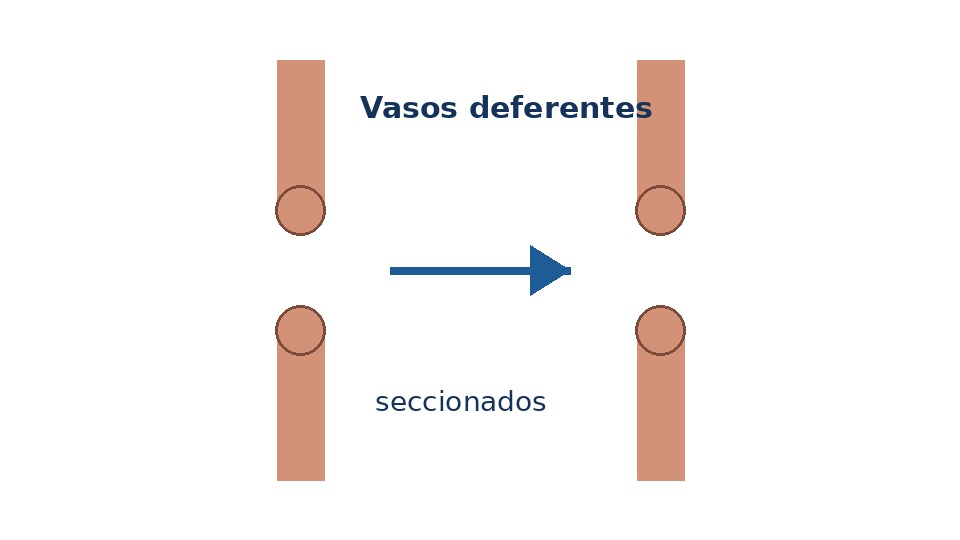
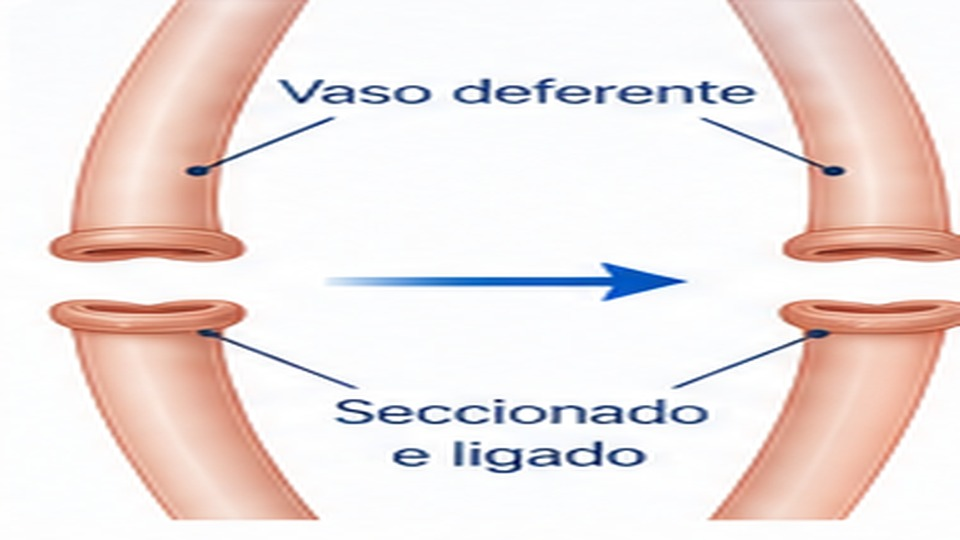
Add files via upload

diff --git a/index.html b/index.html
@@ -1,26 +1,7 @@
 <!doctype html><html lang="pt-BR"><head><meta charset="utf-8"><meta name="viewport" content="width=device-width,initial-scale=1"><meta name="description" content="Dr. Fábio Torricelli, urologista em São Paulo. Atuação em cálculos renais, endourologia, uro-oncologia, cirurgia robótica, próstata e urologia pediátrica."><title>Dr. Fábio Torricelli | Urologista em São Paulo</title><link rel="canonical" href="https://fabiotorricelli.com.br/"><meta name="robots" content="index,follow,max-image-preview:large"><meta property="og:locale" content="pt_BR"><meta property="og:type" content="website"><meta property="og:site_name" content="Dr. Fábio Torricelli"><meta property="og:title" content="Dr. Fábio Torricelli | Urologista em São Paulo"><meta property="og:description" content="Dr. Fábio Torricelli, urologista em São Paulo com atuação em endourologia, tratamento de cálculos renais, uro-oncologia e cirurgia robótica."><meta property="og:url" content="https://fabiotorricelli.com.br/"><meta property="og:image" content="https://fabiotorricelli.com.br/assets/fabio.jpg"><meta name="twitter:card" content="summary_large_image"><link rel="icon" href="/favicon.svg" type="image/svg+xml"><link rel="stylesheet" href="style.css"><script type="application/ld+json">{"@context":"https://schema.org","@graph":[{"@type":"Person","name":"Fábio César Miranda Torricelli","honorificPrefix":"Dr.","url":"https://fabiotorricelli.com.br/","image":"https://fabiotorricelli.com.br/assets/fabio.jpg","jobTitle":"Urologista","sameAs":["http://lattes.cnpq.br/8539986611140744","https://orcid.org/0000-0002-5845-0894","https://pubmed.ncbi.nlm.nih.gov/?term=Torricelli+FCM%5BAuthor%5D"]},{"@type":"MedicalClinic","name":"Consultório Dr. Fábio Torricelli","url":"https://fabiotorricelli.com.br/","telephone":"+55 11 2768-4552","address":{"@type":"PostalAddress","streetAddress":"Rua Barata Ribeiro, 380, conjunto 74","addressLocality":"São Paulo","addressRegion":"SP","addressCountry":"BR"}}]}</script></head><body>
 <header class="top"><a class="brand" href="#inicio">FÁBIO TORRICELLI<small>UROLOGIA · ENDOUROLOGIA · CIRURGIA ROBÓTICA</small></a><nav><a href="#areas">Áreas</a><a href="#formacao">Formação</a><a href="#publicacoes">Publicações</a><a href="#consultorio">Consultório</a><a href="#contato">Contato</a></nav></header>
-<main><section id="inicio" class="hero"><div class="herocopy"><p class="ey light">UROLOGIA · SÃO PAULO</p><h1>Dr. Fábio Torricelli</h1><h2>Urologista</h2><p>Dr. Fábio Torricelli é urologista com atuação em endourologia, tratamento de cálculos renais e cirurgia urológica oncológica e robótica. Sua prática é integrada à sólida formação acadêmica, ao ensino e à pesquisa científica.</p><div class="line"></div><strong class="tag">EXCELÊNCIA EM UROLOGIA COM BASE EM EVIDÊNCIAS</strong><br><a class="btn" href="#contato">Agendar consulta</a><a class="btn outline" href="#formacao">Conheça minha formação</a></div><figure><img src="assets/fabio.jpg" alt="Dr. Fábio Torricelli em apresentação científica"></figure></section>
-<section id="areas" class="section soft">
-<p class="ey">ÁREAS DE ATUAÇÃO</p>
-<h2>Cuidado urológico especializado</h2>
-<p class="areas-intro">Atuação em diferentes áreas da Urologia, com foco em medicina baseada em evidências e cuidado individualizado.</p>
-<div class="grid areas areas-final">
-<a class="card care care-compact" href="calculos-renais.html">
-<img src="assets/area-calculos-renais.jpg" alt="Ilustração de rim com cálculo renal e ureteroscópio" loading="lazy"><div class="care-body"><h3>Cálculos renais e Endourologia</h3><p>Diagnóstico e tratamento minimamente invasivo de cálculos urinários.</p><strong>Saiba mais →</strong></div></a>
-<a class="card care care-compact" href="uro-oncologia.html">
-<img src="assets/area-uro-oncologia.jpg" alt="Ilustração do trato urinário e tumores urológicos" loading="lazy"><div class="care-body"><h3>Uro-oncologia</h3><p>Tratamento dos tumores de próstata, rim, bexiga e testículo.</p><strong>Saiba mais →</strong></div></a>
-<a class="card care care-compact no-image" href="cirurgia-robotica.html">
-<div class="care-body"><h3>Cirurgia robótica e laparoscópica</h3><p>Procedimentos minimamente invasivos com indicação individualizada.</p><strong>Saiba mais →</strong></div></a>
-<a class="card care care-compact no-image" href="hiperplasia-prostatica.html">
-<div class="care-body"><h3>Hiperplasia da próstata (HPB)</h3><p>Avaliação e tratamento clínico e cirúrgico, incluindo técnicas minimamente invasivas.</p><strong>Saiba mais →</strong></div></a>
-<a class="card care care-compact" href="urologia-pediatrica.html">
-<img src="assets/area-urologia-pediatrica.jpg" alt="Ilustração do sistema urinário em contexto pediátrico" loading="lazy"><div class="care-body"><h3>Urologia pediátrica</h3><p>Avaliação de condições urológicas selecionadas da infância e adolescência.</p><strong>Saiba mais →</strong></div></a>
-<a class="card care care-compact" href="vasectomia.html">
-<img src="assets/area-vasectomia.jpg" alt="Esquema ilustrativo da vasectomia" loading="lazy"><div class="care-body"><h3>Vasectomia</h3><p>Método contraceptivo cirúrgico masculino, após avaliação e aconselhamento individualizados.</p><strong>Saiba mais →</strong></div></a>
-</div>
-<div class="urology-values"><span>Diagnóstico preciso e individualizado</span><span>Tratamentos modernos e minimamente invasivos</span><span>Mais segurança e melhor recuperação</span><span>Qualidade de vida em todas as fases</span></div>
-</section>
+<main><section id="inicio" class="hero"><div class="herocopy"><p class="ey light">UROLOGIA · SÃO PAULO</p><h1>Dr. Fábio Torricelli</h1><h2>Urologista</h2><p>Dr. Fábio Torricelli é urologista com atuação em endourologia, tratamento de cálculos renais, cirurgia urológica oncológica e robótica. Sua prática é integrada à sólida formação acadêmica, ao ensino e à pesquisa científica.</p><div class="line"></div><strong class="tag">EXCELÊNCIA EM UROLOGIA COM BASE EM EVIDÊNCIAS</strong><br><a class="btn" href="#contato">Agendar consulta</a><a class="btn outline" href="#formacao">Conheça minha formação</a></div><figure><img src="assets/fabio.jpg" alt="Dr. Fábio Torricelli em apresentação científica"></figure></section>
+<section id="areas" class="section soft"><p class="ey">ÁREAS DE ATUAÇÃO</p><h2>Cuidado urológico especializado</h2><p class="areas-intro">Atuação em diferentes áreas da Urologia, com foco em medicina baseada em evidências e cuidado individualizado.</p><div class="grid areas areas-final"><a class="card care care-compact" href="calculos-renais.html"><img src="assets/area-calculos-renais.jpg" alt="Cálculos renais e Endourologia" loading="lazy"><div class="care-body"><h3>Cálculos renais e Endourologia</h3><p>Diagnóstico e tratamento minimamente invasivo de cálculos urinários.</p><strong>Saiba mais →</strong></div></a><a class="card care care-compact" href="uro-oncologia.html"><img src="assets/area-uro-oncologia.jpg" alt="Uro-oncologia" loading="lazy"><div class="care-body"><h3>Uro-oncologia</h3><p>Tratamento dos tumores de próstata, rim, bexiga e testículo.</p><strong>Saiba mais →</strong></div></a><a class="card care care-compact" href="cirurgia-robotica.html"><img src="assets/area-cirurgia-robotica.jpg" alt="Cirurgia robótica e laparoscópica" loading="lazy"><div class="care-body"><h3>Cirurgia robótica e laparoscópica</h3><p>Procedimentos minimamente invasivos com indicação individualizada.</p><strong>Saiba mais →</strong></div></a><a class="card care care-compact" href="hiperplasia-prostatica.html"><img src="assets/area-hiperplasia-prostata.jpg" alt="Hiperplasia da próstata (HPB)" loading="lazy"><div class="care-body"><h3>Hiperplasia da próstata (HPB)</h3><p>Tratamento clínico e cirúrgico, incluindo ressecção endoscópica da próstata, Rezūm e outras técnicas conforme indicação.</p><strong>Saiba mais →</strong></div></a><a class="card care care-compact" href="urologia-pediatrica.html"><img src="assets/area-urologia-pediatrica.jpg" alt="Urologia pediátrica" loading="lazy"><div class="care-body"><h3>Urologia pediátrica</h3><p>Avaliação de condições urológicas da infância, incluindo fimose e postectomia quando indicada.</p><strong>Saiba mais →</strong></div></a><a class="card care care-compact" href="vasectomia.html"><img src="assets/area-vasectomia.jpg" alt="Vasectomia" loading="lazy"><div class="care-body"><h3>Vasectomia</h3><p>Método contraceptivo cirúrgico masculino, após avaliação e aconselhamento individualizados.</p><strong>Saiba mais →</strong></div></a></div></section>
 <section id="formacao" class="section"><p class="ey">FORMAÇÃO</p><h2>Trajetória acadêmica e profissional</h2><div class="timeline">
 <div class="step"><i>1</i><strong>Graduação em Medicina</strong><a target="_blank" href="https://www.fm.usp.br/">Faculdade de Medicina da Universidade de São Paulo (FMUSP) ↗</a></div>
 <div class="step"><i>2</i><strong>Residência em Cirurgia Geral</strong><a target="_blank" href="https://www.hc.fm.usp.br/">Hospital das Clínicas da FMUSP ↗</a></div>

diff --git a/hiperplasia-prostatica.html b/hiperplasia-prostatica.html
@@ -1,3 +1,3 @@
-<!doctype html><html lang="pt-BR"><head><meta charset="utf-8"><meta name="viewport" content="width=device-width,initial-scale=1"><meta name="description" content="Avaliação e tratamento da hiperplasia prostática benigna em São Paulo, incluindo tratamento clínico e técnicas endoscópicas modernas quando indicadas."><title>Hiperplasia da Próstata em São Paulo | Dr. Fábio Torricelli</title><link rel="canonical" href="https://fabiotorricelli.com.br/hiperplasia-prostatica.html"><meta name="robots" content="index,follow,max-image-preview:large"><meta property="og:locale" content="pt_BR"><meta property="og:type" content="website"><meta property="og:site_name" content="Dr. Fábio Torricelli"><meta property="og:title" content="Hiperplasia da Próstata | Dr. Fábio Torricelli"><meta property="og:description" content="Hiperplasia prostática: tratamento clínico e opções cirúrgicas contemporâneas baseadas em evidências."><meta property="og:url" content="https://fabiotorricelli.com.br/hiperplasia-prostatica.html"><meta property="og:image" content="https://fabiotorricelli.com.br/assets/fabio.jpg"><meta name="twitter:card" content="summary_large_image"><link rel="icon" href="/favicon.svg" type="image/svg+xml"><link rel="stylesheet" href="style.css"></head><body><header class="top"><a class="brand" href="index.html">FÁBIO TORRICELLI<small>UROLOGIA · ENDOUROLOGIA · CIRURGIA ROBÓTICA</small></a><nav><a href="index.html#areas">Áreas</a><a href="index.html#formacao">Formação</a><a href="index.html#publicacoes">Publicações</a><a href="index.html#contato">Contato</a></nav></header><main><section class="treatment-hero"><p class="ey light">INFORMAÇÃO AO PACIENTE · MEDICINA BASEADA EM EVIDÊNCIAS</p><h1>Hiperplasia da próstata</h1><p>A escolha do tratamento considera intensidade dos sintomas, tamanho e anatomia prostática, repercussão urinária, comorbidades e prioridades do paciente, inclusive função sexual.</p></section><section class="section"><h2>Abordagens contemporâneas</h2><div class="treatments"><article class="treatment"><h3>Tratamento clínico</h3><p>Mudanças comportamentais e medicamentos permanecem opções importantes para muitos pacientes, escolhidos de acordo com sintomas e características individuais.</p></article><article class="treatment"><h3>Enucleação endoscópica</h3><p>Técnicas de enucleação endoscópica oferecem tratamento eficaz da obstrução prostática e têm papel consolidado entre as opções cirúrgicas contemporâneas.</p></article><article class="treatment"><h3>Aquablation</h3><p>Ablação por jato de água guiada por imagem é uma alternativa para pacientes selecionados; as diretrizes destacam resultados funcionais e potencial de preservação da ejaculação.</p></article><article class="treatment"><h3>Decisão individualizada</h3><p>Nenhuma técnica é ideal para todos. Volume prostático, anatomia, uso de anticoagulantes, risco anestésico e prioridades funcionais influenciam a escolha.</p></article></div><div class="evidence"><strong>Informação baseada em evidências</strong><p>Conteúdo informativo baseado em diretrizes contemporâneas. A indicação de exames ou tratamentos depende de avaliação médica individual e não pode ser definida apenas por informações disponíveis na internet.</p><a target="_blank" rel="noopener" href="https://uroweb.org/guidelines/management-of-non-neurogenic-male-luts/chapter/disease-management">Referência: EAU Guidelines on Male LUTS ↗</a></div><a class="back" href="index.html#areas">← Voltar às áreas de atuação</a> <a class="btn" href="index.html#contato">Agendar consulta</a></section><section class="section medical-visual"><div class="container">
+<!doctype html><html lang="pt-BR"><head><meta charset="utf-8"><meta name="viewport" content="width=device-width,initial-scale=1"><meta name="description" content="Avaliação e tratamento da hiperplasia prostática benigna em São Paulo, incluindo tratamento clínico e técnicas endoscópicas modernas quando indicadas."><title>Hiperplasia da Próstata em São Paulo | Dr. Fábio Torricelli</title><link rel="canonical" href="https://fabiotorricelli.com.br/hiperplasia-prostatica.html"><meta name="robots" content="index,follow,max-image-preview:large"><meta property="og:locale" content="pt_BR"><meta property="og:type" content="website"><meta property="og:site_name" content="Dr. Fábio Torricelli"><meta property="og:title" content="Hiperplasia da Próstata | Dr. Fábio Torricelli"><meta property="og:description" content="Hiperplasia prostática: tratamento clínico e opções cirúrgicas contemporâneas baseadas em evidências."><meta property="og:url" content="https://fabiotorricelli.com.br/hiperplasia-prostatica.html"><meta property="og:image" content="https://fabiotorricelli.com.br/assets/fabio.jpg"><meta name="twitter:card" content="summary_large_image"><link rel="icon" href="/favicon.svg" type="image/svg+xml"><link rel="stylesheet" href="style.css"></head><body><header class="top"><a class="brand" href="index.html">FÁBIO TORRICELLI<small>UROLOGIA · ENDOUROLOGIA · CIRURGIA ROBÓTICA</small></a><nav><a href="index.html#areas">Áreas</a><a href="index.html#formacao">Formação</a><a href="index.html#publicacoes">Publicações</a><a href="index.html#contato">Contato</a></nav></header><main><section class="treatment-hero"><p class="ey light">INFORMAÇÃO AO PACIENTE · MEDICINA BASEADA EM EVIDÊNCIAS</p><h1>Hiperplasia da próstata</h1><p>A escolha do tratamento considera intensidade dos sintomas, tamanho e anatomia prostática, repercussão urinária, comorbidades e prioridades do paciente, inclusive função sexual.</p></section><section class="section"><h2>Abordagens contemporâneas</h2><div class="treatments"><article class="treatment"><h3>Tratamento clínico</h3><p>Mudanças comportamentais e medicamentos permanecem opções importantes para muitos pacientes, escolhidos de acordo com sintomas e características individuais.</p></article><article class="treatment"><h3>Enucleação endoscópica</h3><p>Técnicas de enucleação endoscópica oferecem tratamento eficaz da obstrução prostática e têm papel consolidado entre as opções cirúrgicas contemporâneas.</p></article><article class="treatment"><</h3><p>Ablação por jato de água guiada por imagem é uma alternativa para pacientes selecionados; as diretrizes destacam resultados funcionais e potencial de preservação da ejaculação.</p></article><article class="treatment"><h3>Decisão individualizada</h3><p>Nenhuma técnica é ideal para todos. Volume prostático, anatomia, uso de anticoagulantes, risco anestésico e prioridades funcionais influenciam a escolha.</p></article></div><div class="evidence"><strong>Informação baseada em evidências</strong><p>Conteúdo informativo baseado em diretrizes contemporâneas. A indicação de exames ou tratamentos depende de avaliação médica individual e não pode ser definida apenas por informações disponíveis na internet.</p><a target="_blank" rel="noopener" href="https://uroweb.org/guidelines/management-of-non-neurogenic-male-luts/chapter/disease-management">Referência: EAU Guidelines on Male LUTS ↗</a></div><a class="back" href="index.html#areas">← Voltar às áreas de atuação</a> <a class="btn" href="index.html#contato">Agendar consulta</a></section><section class="section medical-visual"><div class="container">
     <figure class="medical-figure"><img src="assets/prostata-hpb-tratamentos.png" alt="Ilustração educacional da hiperplasia prostática e de opções de tratamento endoscópico e robótico." loading="lazy">
-    <figcaption>Ilustração educacional da hiperplasia prostática e de opções de tratamento endoscópico e robótico.</figcaption></figure></div></section></main><footer><span>Dr. Fábio César Miranda Torricelli · CRM-SP 124935</span><span>© 2026</span></footer></body></html>
+    <figcaption>Ilustração educacional da hiperplasia prostática e de opções de tratamento endoscópico e robótico.</figcaption></figure></div></section><section class="section soft"><div class="prose"><h2>Tratamentos endoscópicos e minimamente invasivos</h2><h3>Ressecção endoscópica da próstata (RTU/TURP)</h3><p>Técnica endoscópica consolidada para tratar a obstrução urinária causada pela hiperplasia prostática. A indicação considera volume e anatomia da próstata, intensidade dos sintomas, comorbidades e objetivos do paciente.</p><h3>Rezūm</h3><p>O Rezūm utiliza vapor de água para reduzir o tecido prostático obstrutivo e pode ser uma alternativa em pacientes selecionados. A escolha do tratamento deve ser individualizada após avaliação urológica.</p><h3>HoLEP</h3><p>A enucleação prostática com laser de holmium é uma opção endoscópica eficaz, inclusive para próstatas volumosas, quando indicada de acordo com as características clínicas e anatômicas.</p></div></section></main><footer><span>Dr. Fábio César Miranda Torricelli · CRM-SP 124935</span><span>© 2026</span></footer></body></html>

diff --git a/urologia-pediatrica.html b/urologia-pediatrica.html
@@ -1,1 +1,1 @@
-<!doctype html><html lang="pt-BR"><head><meta charset="utf-8"><meta name="viewport" content="width=device-width,initial-scale=1"><meta name="description" content="Avaliação urológica de crianças e adolescentes em São Paulo, incluindo hidronefrose, refluxo, criptorquidia, cálculos e outras condições urológicas."><title>Urologia Pediátrica em São Paulo | Dr. Fábio Torricelli</title><link rel="canonical" href="https://fabiotorricelli.com.br/urologia-pediatrica.html"><meta name="robots" content="index,follow,max-image-preview:large"><meta property="og:locale" content="pt_BR"><meta property="og:type" content="website"><meta property="og:site_name" content="Dr. Fábio Torricelli"><meta property="og:title" content="Urologia Pediátrica | Dr. Fábio Torricelli"><meta property="og:description" content="Urologia pediátrica: hidronefrose, refluxo urinário, criptorquidia e cálculos urinários."><meta property="og:url" content="https://fabiotorricelli.com.br/urologia-pediatrica.html"><meta property="og:image" content="https://fabiotorricelli.com.br/assets/fabio.jpg"><meta name="twitter:card" content="summary_large_image"><link rel="icon" href="/favicon.svg" type="image/svg+xml"><link rel="stylesheet" href="style.css"></head><body><header class="top"><a class="brand" href="index.html">FÁBIO TORRICELLI<small>UROLOGIA · ENDOUROLOGIA · CIRURGIA ROBÓTICA</small></a><nav><a href="index.html#areas">Áreas</a><a href="index.html#formacao">Formação</a><a href="index.html#publicacoes">Publicações</a><a href="index.html#contato">Contato</a></nav></header><main><section class="treatment-hero"><p class="ey light">INFORMAÇÃO AO PACIENTE · MEDICINA BASEADA EM EVIDÊNCIAS</p><h1>Urologia pediátrica</h1><p>Problemas urológicos na infância diferem dos encontrados em adultos. A avaliação deve considerar idade, desenvolvimento, sintomas, função renal e história natural de cada condição.</p></section><section class="section"><h2>Abordagens contemporâneas</h2><div class="treatments"><article class="treatment"><h3>Hidronefrose e junção ureteropélvica</h3><p>Muitos casos podem ser acompanhados; sinais de obstrução relevante, sintomas ou repercussão funcional ajudam a definir necessidade de intervenção.</p></article><article class="treatment"><h3>Refluxo e infecção urinária</h3><p>Investigação e tratamento são individualizados conforme idade, recorrência de infecções, grau do refluxo e risco para o trato urinário superior.</p></article><article class="treatment"><h3>Criptorquidia e condições genitais</h3><p>Diagnóstico e tratamento no momento adequado são importantes para preservar função e reduzir riscos futuros.</p></article><article class="treatment"><h3>Cálculos urinários</h3><p>Além do tratamento do cálculo, crianças com litíase merecem atenção especial à investigação de fatores metabólicos e prevenção de recorrência.</p></article></div><div class="evidence"><strong>Informação baseada em evidências</strong><p>Conteúdo informativo baseado em diretrizes contemporâneas. A indicação de exames ou tratamentos depende de avaliação médica individual e não pode ser definida apenas por informações disponíveis na internet.</p><a target="_blank" rel="noopener" href="https://uroweb.org/guidelines/paediatric-urology">Referência: EAU Guidelines on Paediatric Urology ↗</a></div><a class="back" href="index.html#areas">← Voltar às áreas de atuação</a> <a class="btn" href="index.html#contato">Agendar consulta</a></section></main><footer><span>Dr. Fábio César Miranda Torricelli · CRM-SP 124935</span><span>© 2026</span></footer></body></html>
+<!doctype html><html lang="pt-BR"><head><meta charset="utf-8"><meta name="viewport" content="width=device-width,initial-scale=1"><meta name="description" content="Avaliação urológica de crianças e adolescentes em São Paulo, incluindo hidronefrose, refluxo, criptorquidia, cálculos e outras condições urológicas."><title>Urologia Pediátrica em São Paulo | Dr. Fábio Torricelli</title><link rel="canonical" href="https://fabiotorricelli.com.br/urologia-pediatrica.html"><meta name="robots" content="index,follow,max-image-preview:large"><meta property="og:locale" content="pt_BR"><meta property="og:type" content="website"><meta property="og:site_name" content="Dr. Fábio Torricelli"><meta property="og:title" content="Urologia Pediátrica | Dr. Fábio Torricelli"><meta property="og:description" content="Urologia pediátrica: hidronefrose, refluxo urinário, criptorquidia e cálculos urinários."><meta property="og:url" content="https://fabiotorricelli.com.br/urologia-pediatrica.html"><meta property="og:image" content="https://fabiotorricelli.com.br/assets/fabio.jpg"><meta name="twitter:card" content="summary_large_image"><link rel="icon" href="/favicon.svg" type="image/svg+xml"><link rel="stylesheet" href="style.css"></head><body><header class="top"><a class="brand" href="index.html">FÁBIO TORRICELLI<small>UROLOGIA · ENDOUROLOGIA · CIRURGIA ROBÓTICA</small></a><nav><a href="index.html#areas">Áreas</a><a href="index.html#formacao">Formação</a><a href="index.html#publicacoes">Publicações</a><a href="index.html#contato">Contato</a></nav></header><main><section class="treatment-hero"><p class="ey light">INFORMAÇÃO AO PACIENTE · MEDICINA BASEADA EM EVIDÊNCIAS</p><h1>Urologia pediátrica</h1><p>Problemas urológicos na infância diferem dos encontrados em adultos. A avaliação deve considerar idade, desenvolvimento, sintomas, função renal e história natural de cada condição.</p></section><section class="section"><h2>Abordagens contemporâneas</h2><div class="treatments"><article class="treatment"><h3>Hidronefrose e junção ureteropélvica</h3><p>Muitos casos podem ser acompanhados; sinais de obstrução relevante, sintomas ou repercussão funcional ajudam a definir necessidade de intervenção.</p></article><article class="treatment"><h3>Refluxo e infecção urinária</h3><p>Investigação e tratamento são individualizados conforme idade, recorrência de infecções, grau do refluxo e risco para o trato urinário superior.</p></article><article class="treatment"><h3>Criptorquidia e condições genitais</h3><p>Diagnóstico e tratamento no momento adequado são importantes para preservar função e reduzir riscos futuros.</p></article><article class="treatment"><h3>Cálculos urinários</h3><p>Além do tratamento do cálculo, crianças com litíase merecem atenção especial à investigação de fatores metabólicos e prevenção de recorrência.</p></article></div><div class="evidence"><strong>Informação baseada em evidências</strong><p>Conteúdo informativo baseado em diretrizes contemporâneas. A indicação de exames ou tratamentos depende de avaliação médica individual e não pode ser definida apenas por informações disponíveis na internet.</p><a target="_blank" rel="noopener" href="https://uroweb.org/guidelines/paediatric-urology">Referência: EAU Guidelines on Paediatric Urology ↗</a></div><a class="back" href="index.html#areas">← Voltar às áreas de atuação</a> <a class="btn" href="index.html#contato">Agendar consulta</a></section><section class="section soft"><div class="prose"><h2>Fimose e postectomia</h2><p>A fimose é frequente na infância e muitas vezes apresenta evolução fisiológica. Quando há indicação clínica, podem ser considerados tratamento tópico e, em situações selecionadas, postectomia. A decisão é individualizada após avaliação urológica.</p></div></section></main><footer><span>Dr. Fábio César Miranda Torricelli · CRM-SP 124935</span><span>© 2026</span></footer></body></html>

diff --git a/style.css b/style.css
@@ -19,18 +19,4 @@
 .care-image .care-body{padding:22px 24px 24px}
 .care-image .num{display:inline-block;margin-bottom:8px}
 @media(max-width:700px){.care-image>img{height:200px}}
-
-/* VERSÃO FINAL — áreas compactas */
-.areas-intro{max-width:760px;margin:-6px auto 28px;text-align:center;color:var(--muted)}
-.areas-final{grid-template-columns:repeat(3,minmax(0,1fr));gap:16px}
-.care-compact{padding:0;overflow:hidden;display:grid;grid-template-columns:112px 1fr;min-height:190px;align-items:stretch}
-.care-compact>img{width:112px;height:100%;min-height:190px;object-fit:cover;border-radius:18px 0 0 18px}
-.care-compact .care-body{padding:20px 18px;display:flex;flex-direction:column}
-.care-compact h3{font-size:1.15rem;margin:0 0 10px}
-.care-compact p{font-size:.94rem;line-height:1.45;margin:0 0 14px}
-.care-compact strong{margin-top:auto}
-.care-compact.no-image{display:block}
-.care-compact.no-image .care-body{min-height:190px}
-.urology-values{margin-top:30px;padding-top:22px;border-top:1px solid #d9e4ef;display:grid;grid-template-columns:repeat(4,1fr);gap:16px;text-align:center;font-size:.9rem;color:var(--navy)}
-@media(max-width:900px){.areas-final{grid-template-columns:repeat(2,1fr)}.urology-values{grid-template-columns:repeat(2,1fr)}}
-@media(max-width:620px){.areas-final{grid-template-columns:1fr}.care-compact{grid-template-columns:100px 1fr}.care-compact>img{width:100px}.urology-values{grid-template-columns:1fr}}
+.areas-intro{max-width:760px;margin:-6px auto 28px;text-align:center}.areas-final{grid-template-columns:repeat(3,minmax(0,1fr));gap:16px}.areas-final .care-compact{padding:0;overflow:hidden;display:grid;grid-template-columns:112px 1fr;min-height:190px}.areas-final .care-compact>img{width:112px;height:100%;min-height:190px;object-fit:cover}.areas-final .care-body{padding:18px 16px;display:flex;flex-direction:column}.areas-final .care-body strong{margin-top:auto}img[src*="fabio.jpg"]{object-fit:contain!important;object-position:center top!important}@media(max-width:900px){.areas-final{grid-template-columns:repeat(2,1fr)}}@media(max-width:620px){.areas-final{grid-template-columns:1fr}img[src*="fabio.jpg"]{object-fit:contain!important;object-position:center top!important;height:auto!important;max-height:none!important}}
